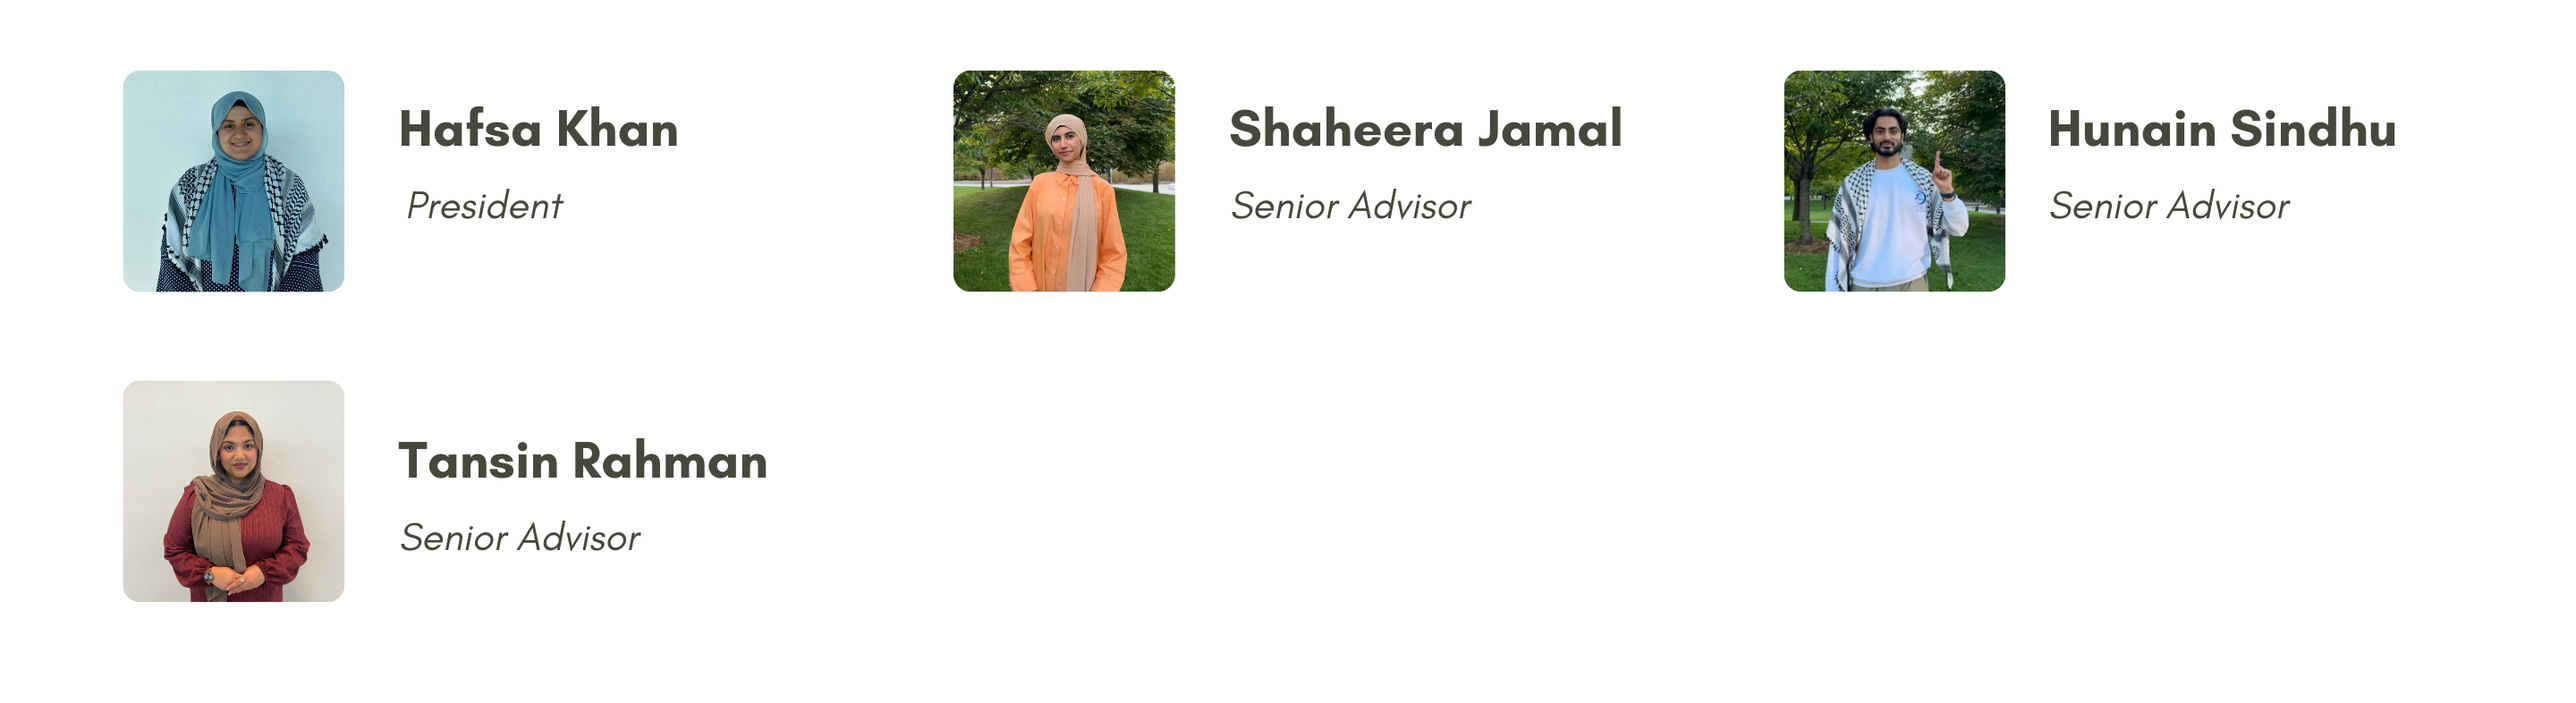
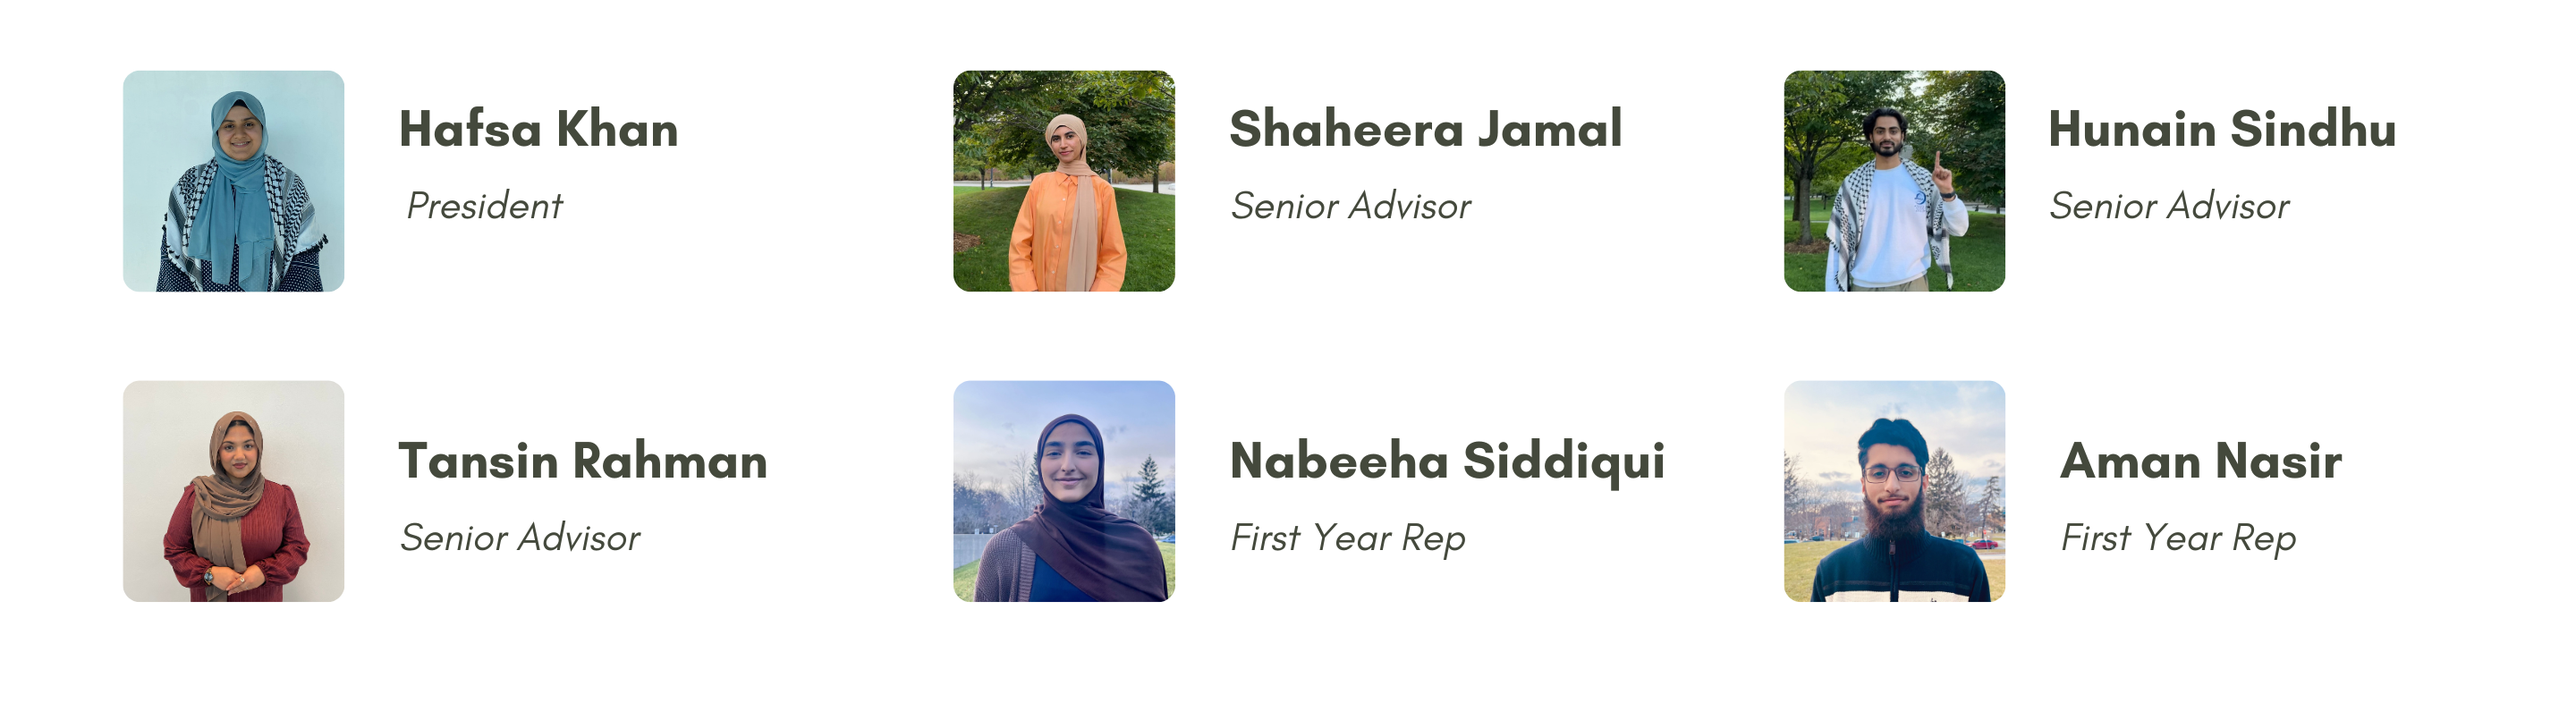
updated the meet the team to include first year reps

Changed region(s): [[0.3438, 0.5191, 0.6562, 0.855], [0.6875, 0.5191, 0.9062, 0.855], [0.8125, 0.7328, 0.9062, 0.7939]]

diff --git a/src/components/about.js b/src/components/about.js
@@ -64,8 +64,8 @@ const MeetTheTeam = () => (
   <section id="team">
     <h2 className="about-title">Meet The Team</h2>
     <div>
-      <h2 className="team-title">President & Senior Advisors</h2>
-      <img src={president} alt="President and Senior Advisors"></img>
+      <h2 className="team-title">President, Senior Advisors, and First Year Reps</h2>
+      <img src={president} alt="President, Senior Advisors, and First Year Reps"></img>
     </div>
     <div>
       <h2 className="team-title">Marketing and Communications</h2>
